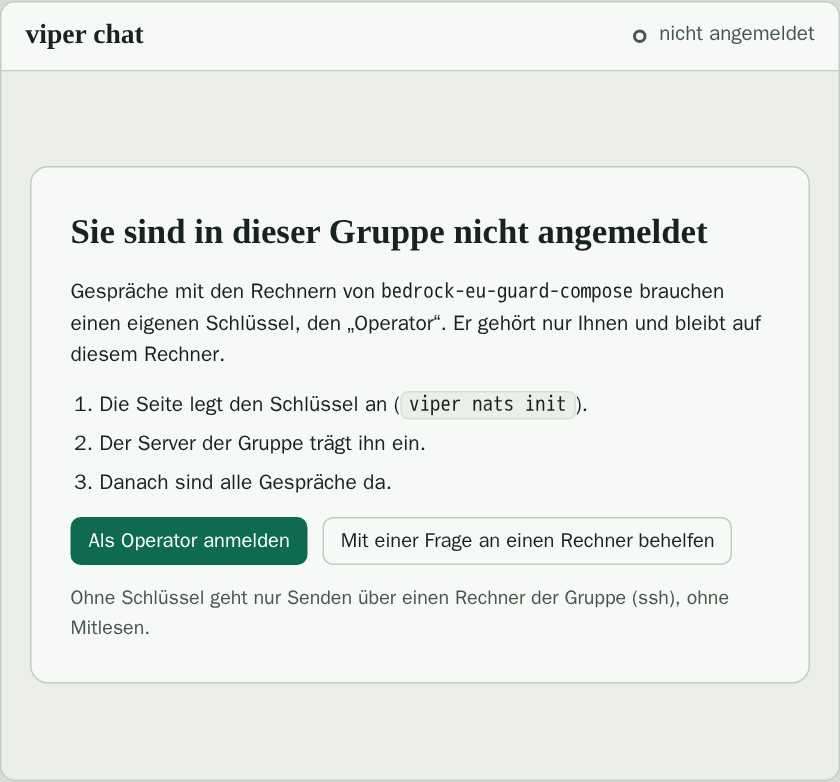
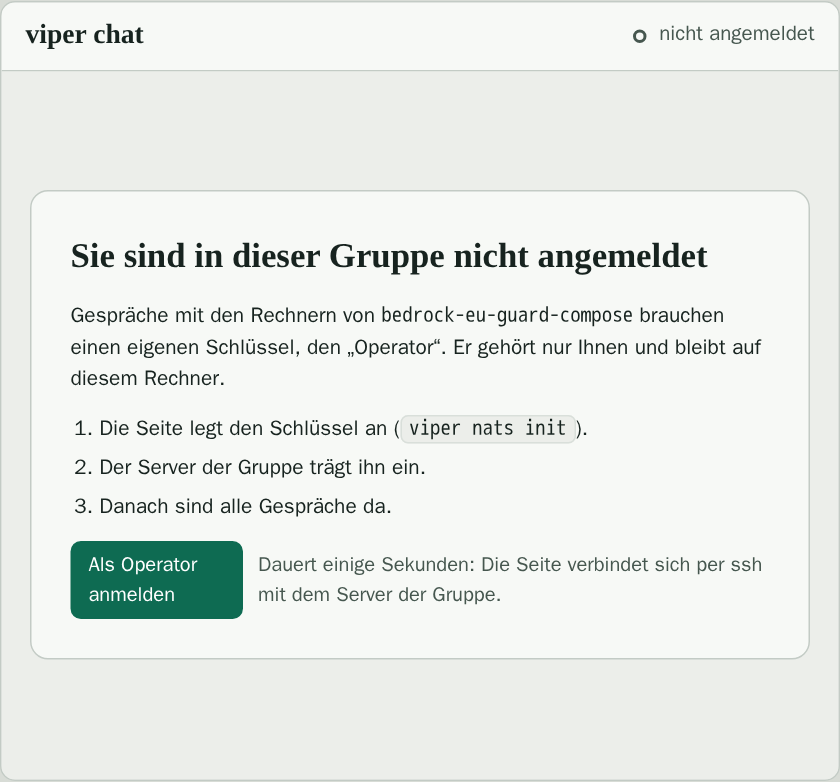
Plan ui-chat: Funde der Pruefung eingearbeitet (Strom im Programm, asked-Ereignis, Dedupe, eigene Nachrichten, Rotation, Sperrdatei, Webserver-Haken), Bilder berichtigt

Changed region(s): [[0.0619, 0.2762, 0.8976, 0.8286], [0.031, 0.8286, 0.0619, 0.8593]]

diff --git a/docs/plan/ui-chat/vorschau.html b/docs/plan/ui-chat/vorschau.html
@@ -203,7 +203,7 @@ svg { display: block; }
       <div class="msgs">
         <div class="day">Heute</div>
         <div class="m mine"><div class="bub"><div class="who"><b>Sie (operator)</b><span>13:58</span><span class="chip req">Frage</span></div><div class="txt">Fasse den Stand der Migration kurz zusammen und lege den Bericht als PDF bei.</div></div></div>
-        <div class="m"><div class="av c2">w2</div><div class="bub"><div class="who"><b>w2</b><span>14:00</span><span class="chip ok">Antwort nach 2 min 12 s</span></div><div class="txt">Drei von vier Schritten sind durch. Offen ist die Umstellung der Konfiguration in <code>config/prod.yaml</code>.</div>
+        <div class="m"><div class="av c2">w2</div><div class="bub"><div class="who"><b>w2</b><span>13:58</span><span class="chip ok">Antwort nach 18 s</span></div><div class="txt">Drei von vier Schritten sind durch. Offen ist die Umstellung der Konfiguration in <code>config/prod.yaml</code>.</div>
           <div class="att"><div class="ic">PDF</div><div><div class="nm">migration-bericht.pdf</div><small>4 Seiten · 212 KB · sha256 9f2c…a41e</small></div><span class="btn">Herunterladen</span></div></div></div>
         <div class="sys warn">w2 liest Nachrichten von <b>operator</b> sofort in seiner Sitzung (NATS_MCP_PUSH_FROM). Ihr Text erscheint dort als Eingabe.</div>
         <div class="m mine"><div class="bub"><div class="who"><b>Sie (operator)</b><span>14:05</span></div><div class="txt">Danke. Mach die Umstellung, aber erst nach grünem Build auf w1.</div></div></div>
@@ -213,10 +213,10 @@ svg { display: block; }
         <div class="tools"><svg width="18" height="18" viewBox="0 0 24 24" fill="none" stroke="currentColor" stroke-width="2" stroke-linecap="round" stroke-linejoin="round"><path d="M21 12l-8.5 8.5a5 5 0 0 1-7-7L14 5a3.3 3.3 0 0 1 4.7 4.7L10 18.4a1.7 1.7 0 0 1-2.4-2.4L15 8.6"/></svg>Datei<span class="seg"><span class="on">Nachricht</span><span>Frage, wartet 30 s</span></span><span class="sp"></span>0 von 16 384 Zeichen · Strg+Enter<span class="btn pri">Senden</span></div></div>
     </main>
     <aside class="side">
-      <div><h3>Angaben</h3><dl class="kv"><dt>Gruppe</dt><dd>bedrock-eu-guard-compose</dd><dt>Rolle</dt><dd>Client</dd><dt>Anbieter</dt><dd>compose</dd><dt>Zuletzt gesehen</dt><dd>vor 12 s</dd><dt>MCP-Server</dt><dd>v0.30.0</dd></dl></div>
+      <div><h3>Angaben</h3><dl class="kv"><dt>Gruppe</dt><dd>bedrock-eu-guard-compose</dd><dt>Rolle</dt><dd>Client</dd><dt>Anbieter</dt><dd>compose</dd><dt>Zuletzt gesehen</dt><dd>vor 12 s</dd><dt>Verlauf seit</dt><dd>13:21</dd></dl></div>
       <div><h3>Empfängt Themen</h3><div class="tags"><span>general</span><span>build</span></div></div>
       <div><h3>Dateien</h3><div class="kv"><dt>Größe höchstens</dt><dd>16 MiB</dd><dt>Erlaubt</dt><dd>PDF, Bild, ZIP</dd></div></div>
-      <div class="note">Nachrichten kommen als „operator“ an. Der Rechner kann antworten, muss es aber nicht.</div>
+      <div class="note">Nachrichten kommen als „operator“ an (der Name ist einstellbar). Der Rechner kann antworten, muss es aber nicht. Was Sie am Terminal senden, sehen Sie hier nicht.</div>
     </aside>
   </div>
 </div></div>
@@ -253,7 +253,7 @@ svg { display: block; }
         <div class="day">Heute</div>
         <div class="m"><div class="av c1">w1</div><div class="bub"><div class="who"><b>w1</b><span>13:30</span></div><div class="txt">Nightly ist durch: 1 842 Tests, 0 Fehler.</div></div></div>
         <div class="m"><div class="av c4">w3</div><div class="bub"><div class="who"><b>w3</b><span>13:44</span></div><div class="txt">Ich nehme den Cache-Umbau. Wer fasst <code>internal/cache</code> an, bitte melden.</div></div></div>
-        <div class="m mine"><div class="bub"><div class="who"><b>Sie (operator)</b><span>14:01</span><span class="chip">gesendet an 2</span></div><div class="txt">Heute bis 18 Uhr nur Fehlerkorrekturen. Neue Funktionen bleiben im Zweig.</div></div></div>
+        <div class="m mine"><div class="bub"><div class="who"><b>Sie (operator)</b><span>14:01</span><span class="chip">an 2 Rechner, die das Thema melden</span></div><div class="txt">Heute bis 18 Uhr nur Fehlerkorrekturen. Neue Funktionen bleiben im Zweig.</div></div></div>
         <div class="m"><div class="av c1">w1</div><div class="bub"><div class="who"><b>w1</b><span>14:06</span></div><div class="txt">Release-Branch ist eingefroren.</div></div></div>
         <div class="sys">Thema <span class="tag">#general</span>: Nachrichten, die vor Ihrem Start gesendet wurden, sind nicht zu sehen (NATS hebt sie nicht auf).</div>
       </div>
@@ -384,11 +384,11 @@ svg { display: block; }
         <div class="sys warn">Kein Rechner empfängt <span class="tag">#alerts</span>. Eine Nachricht hierhin käme bei niemandem an. Ein Rechner empfängt ein Thema, wenn es in <code>NATS_MCP_TOPICS</code> steht oder sein Agent es abonniert.</div>
       </div>
       <div class="comp"><div class="box">Rundruf an #alerts …</div>
-        <div class="tools"><svg width="18" height="18" viewBox="0 0 24 24" fill="none" stroke="currentColor" stroke-width="2" stroke-linecap="round" stroke-linejoin="round"><path d="M21 12l-8.5 8.5a5 5 0 0 1-7-7L14 5a3.3 3.3 0 0 1 4.7 4.7L10 18.4a1.7 1.7 0 0 1-2.4-2.4L15 8.6"/></svg>Datei<span class="seg"><span class="on">Rundruf</span></span><span class="sp"></span><span style="color:var(--warn)">an 0 Rechner</span><span class="btn">Senden</span></div></div>
+        <div class="tools"><svg width="18" height="18" viewBox="0 0 24 24" fill="none" stroke="currentColor" stroke-width="2" stroke-linecap="round" stroke-linejoin="round"><path d="M21 12l-8.5 8.5a5 5 0 0 1-7-7L14 5a3.3 3.3 0 0 1 4.7 4.7L10 18.4a1.7 1.7 0 0 1-2.4-2.4L15 8.6"/></svg>Datei<span class="seg"><span class="on">Rundruf</span></span><span class="sp"></span><span style="color:var(--warn)">an 0 Rechner, die das Thema melden</span><span class="btn">Senden</span></div></div>
     </main>
     <aside class="side">
       <div><h3>Thema alerts</h3><dl class="kv"><dt>Abonnenten</dt><dd>keine</dd><dt>Gesendet von</dt><dd>w2</dd><dt>Erste Meldung</dt><dd>11:48</dd></dl></div>
-      <div><h3>Wer es empfangen könnte</h3><div class="tags"><span>w1</span><span>w2</span><span>w3</span></div></div>
+      <div><h3>Rechner der Gruppe</h3><div class="tags"><span>w1</span><span>w2</span><span>w3</span></div></div>
       <div class="note">Das Thema steht in keiner Einstellung <code>NATS_MCP_TOPICS</code> der Gruppe. Es ist durch Meldungen im Verlauf entstanden.</div>
     </aside>
   </div>
@@ -433,8 +433,7 @@ svg { display: block; }
     <h2>Sie sind in dieser Gruppe nicht angemeldet</h2>
     <div>Gespräche mit den Rechnern von <b style="font-family:var(--mono)">bedrock-eu-guard-compose</b> brauchen einen eigenen Schlüssel, den „Operator“. Er gehört nur Ihnen und bleibt auf diesem Rechner.</div>
     <ol><li>Die Seite legt den Schlüssel an (<code>viper nats init</code>).</li><li>Der Server der Gruppe trägt ihn ein.</li><li>Danach sind alle Gespräche da.</li></ol>
-    <div style="display:flex;gap:10px"><span class="btn pri">Als Operator anmelden</span><span class="btn">Mit einer Frage an einen Rechner behelfen</span></div>
-    <div class="hint" style="color:var(--muted);font-size:.82rem">Ohne Schlüssel geht nur Senden über einen Rechner der Gruppe (ssh), ohne Mitlesen.</div>
+    <div style="display:flex;gap:10px;align-items:center"><span class="btn pri">Als Operator anmelden</span><span style="color:var(--muted);font-size:.84rem">Dauert einige Sekunden: Die Seite verbindet sich per ssh mit dem Server der Gruppe.</span></div>
   </div></main></div>
 </div></div>
 <div class="scroll"><div class="board" id="b5b" style="width:560px;height:520px;grid-template-rows:46px auto 1fr">
@@ -442,8 +441,8 @@ svg { display: block; }
   <div class="banner"><span><b>Der Server kennt Ihren Schlüssel nicht</b> („Authorization Violation“). Er stammt wohl aus einer früheren Gruppe.</span><span class="sp"></span><span class="btn bad">Abmelden</span><span class="btn pri">Neu anmelden</span></div>
   <div class="shell one" style="grid-row:auto"><main class="conv" style="display:grid"><div class="empty" style="max-width:440px">
     <h2>Keine Verbindung</h2>
-    <div>Zuletzt versucht um 14:12. Der Verlauf bis 14:09 ist auf diesem Rechner gespeichert und bleibt lesbar.</div>
-    <div class="sys warn" style="text-align:left">Am Terminal: <code>viper nats revoke bedrock-eu-guard-compose</code>, dann <code>viper nats init bedrock-eu-guard-compose</code>.</div>
+    <div>Zuletzt versucht um 14:12, nächster Versuch in 8 s. Der Verlauf bis 14:09 ist auf diesem Rechner gespeichert und bleibt lesbar.</div>
+    <div style="color:var(--muted);font-size:.84rem">„Neu anmelden“ macht, was am Terminal <code>viper nats revoke</code> und danach <code>viper nats init</code> tun.</div>
   </div></main></div>
 </div></div>
 </div>

diff --git a/docs/plan/ui-chat.md b/docs/plan/ui-chat.md
@@ -2,11 +2,11 @@
 
 **Ziel:** `viper ui-chat` öffnet im Browser einen Chat im Stil von Microsoft Teams: links alle Gespräche, in der Mitte der Verlauf, unten das Eingabefeld. Jede Verbindung, die `viper` in einer NATS-Gruppe sieht, ist ein eigenes Gespräch: ein Rechner (Sie und er), **jedes Thema** der Gruppe, **jedes Paar von Rechnern** (w1 ↔ w2, mitgelesen) und „Alle Meldungen“ der Gruppe. Man schreibt Nachrichten, stellt Fragen und tauscht Dateien, ohne am Terminal `viper nats send` zu tippen.
 
-**Stand:** Entwurf (18.11.2026); die Entscheidungen in §9 sind getroffen (Vorschläge übernommen), die Prüfung läuft (§10). Die Bilder in §6 sind eine **Vorschau zum Beurteilen** (HTML in [`ui-chat/vorschau.html`](ui-chat/vorschau.html)); gebaut ist nichts. Gehört zu [`nats.md`](nats.md) (die Gruppen), [`nats-cli.md`](nats-cli.md) (`viper nats`) und [`ui.md`](ui.md) (Sicherheit und Aufbau der Oberfläche). *[V]* heißt: im Code gelesen; *[?]* ist eine Vermutung, die vor dem Bauen zu prüfen ist.
+**Stand:** Entwurf (18.11.2026); die Entscheidungen in §9 sind getroffen (Vorschläge übernommen); der Plan wurde einmal unabhängig gegen den Code und ein gebautes Programm geprüft, die Funde sind eingearbeitet (§10). Die Bilder in §6 sind eine **Vorschau zum Beurteilen** (HTML in [`ui-chat/vorschau.html`](ui-chat/vorschau.html)); gebaut ist nichts. Gehört zu [`nats.md`](nats.md) (die Gruppen), [`nats-cli.md`](nats-cli.md) (`viper nats`) und [`ui.md`](ui.md) (Sicherheit und Aufbau der Oberfläche). *[V]* heißt: im Code gelesen; *[?]* ist eine Vermutung, die vor dem Bauen zu prüfen ist.
 
 ## 1 Ausgangslage
 
-* `viper nats` kann alles, was ein Chat braucht *[V]*: `send` (an einen Rechner), `broadcast` (an ein Thema), `request` (fragen und auf die Antwort warten), `listen [--topic T] [--all]` (mitlesen), `peers` und `topics` (wer da ist, wer was empfängt), `fetch` (eine Datei holen), `init` und `revoke` (der eigene Schlüssel als „operator“). Mit `--json` kommt jede Meldung als eine Zeile: `event`, `from`, `to`, `via` (`out`, `pub`, `presence`, `topics`), `topic`, `type` (`msg`, `req`), `id`, `re`, `text`, `att_*`.
+* `viper nats` kann alles, was ein Chat braucht *[V]*: `send` (an einen Rechner), `broadcast` (an ein Thema), `request` (fragen und auf die Antwort warten), `listen [--topic T] [--all]` (mitlesen), `peers` und `topics` (wer da ist, wer was empfängt), `fetch` (eine Datei holen), `init` und `revoke` (der eigene Schlüssel als „operator“). Mit `--json` kommt jede Meldung als eine Zeile: `event`, `from`, `to`, `via` (`out`, `pub`, `presence`, `topics`), `topic`, `type` (`msg`, `req`, `res`), `id` (nur bei `req`), `re` (nur bei `res`), `text`, `att_*`. Der Operator sieht **seine eigenen Nachrichten nicht** (`NoEcho`).
 * Die Seite NATS in `viper ui` zeigt das schon, aber als Werkzeug: ein Formular, ein Ausgabebereich, ein Mitlesen **je Lauf**, kein Verlauf. Wer mit mehreren Rechnern „spricht“, hat keinen Überblick, was er wem geschrieben hat und wer geantwortet hat.
 * **Der Operator darf die ganze Gruppe lesen** *[V: `natsmcp/service.go`, `subscribeTopics`; `config.go`: „Der Server lässt jeden Rechner die Gruppe lesen, das ist kein neues Recht“]*: Das Mitlesen (`listen`) abonniert `viper.<gruppe>.*.pub.>`, also **alle Themen**, auch die, die kein Rechner empfängt; mit `--all` kommen die Direktnachrichten **zwischen allen Rechnern** dazu (`AllOutSub`). Daraus lassen sich die Gespräche zwischen zwei Rechnern und die Liste aller Themen bilden.
 * **NATS (ohne JetStream) hebt nichts auf** *[V]*: Eine Meldung kommt nur an, wenn der Empfänger **in dem Moment** verbunden ist. Es gibt keinen Verlauf, keine Lesebestätigung, kein Bearbeiten und kein Löschen. Der Verlauf eines Chats muss also **auf diesem Rechner** entstehen, aus dem, was der Chat gesehen hat.
@@ -27,37 +27,54 @@
 ## 3 Aufbau
 
 ```
- Browser (Seite des Chats)                viper ui-chat (ein Programm, ein Port)
- ───────────────────────────             ────────────────────────────────────────────────────────
-  Liste der Gespräche   ◄──── SSE ────   Strom je Gruppe:  viper nats listen G --all --json ──► NATS
-  Verlauf, Eingabe      ──── POST ───►   Senden:           viper nats send|broadcast|request …
-                                          Verlauf:          ~/.local/state/viper/chat/<gruppe>/…
-                                          Abgleich:         Antwort ↔ Frage über "re" und "id"
+ Browser (Seite des Chats)         viper ui-chat (ein Programm, ein Port)
+ ─────────────────────────        ───────────────────────────────────────────────────────────────────
+  Liste der Gespräche   ◄─ SSE ─   Chat-Schicht (Paket cli):  je Gruppe  openOperator (ein Tunnel)
+  Verlauf, Eingabe      ─ POST ─►   ├─ Strom:     natsmcp.RunCLI("watch", --all, --query) ─► NATS
+                                    ├─ Senden:    RunCLI("send" | "broadcast" | "request") über denselben Tunnel
+                                    ├─ Holen:     RunCLI("fetch") bei einem Klick
+                                    └─ Verlauf:   ~/.local/state/viper/chat/<gruppe>/…  (Sperrdatei)
 ```
 
-* **Ein neuer Unterbefehl `viper ui-chat`** (`--port`, `--no-open`, `--readonly`), in `internal/adapter/driving/cli`. Er startet denselben Webserver wie `viper ui`, aber mit **anderen Seiten und einer anderen Programmschnittstelle** (`/api/chat/…`): Schlüssel, Cookie, Host- und Origin-Prüfung, CSP, Ströme und Läufe sind dieselben Bausteine *[V, zu prüfen: `web.Config` bekommt ein Feld für die Seiten und einen Handler; §9 Punkt 1]*. Der Chat hat **kein** Formular für Einstellungen, Läufe auf Rechnern oder Befehle.
-* **Strom:** Für jede **verbundene** Gruppe läuft **ein** `viper nats listen G --all --json` als Lauf des Servers (kein Lauf je Tab). Seine Zeilen gehen durch dieselbe Reinigung und Schwärzung wie jeder Lauf, werden **einem Gespräch zugeordnet** und im Verlauf abgelegt; die Seite bekommt sie über SSE. Reißt der Strom ab (Tunnel, Server neu gestartet), verbindet der Server sich wieder (Wartezeit wächst bis 30 s) und sagt es im Kopf der Seite (Bild 5).
-* **Zuordnung** *[V, aus den Feldern der Zeile]*: `via=out` mit `to=operator` oder `from=operator` → Gespräch des Rechners (`from`/`to`); `via=out` zwischen **zwei Rechnern** (nur mit `--all`) → das **Paar** (der Schlüssel des Paares sind die beiden Namen, sortiert: `w1`, `w2`, gleich in beiden Richtungen; Fragen und Antworten über `id` und `re`); `via=pub` → Thema `topic` (jedes, auch ohne Abonnent); `via=presence`/`topics` → Anwesenheit und Themenlisten, keine Nachricht (§4.4). Alles erscheint zusätzlich in „Alle Meldungen“.
-* **Die Liste der Themen** besteht aus den Themen in `NATS_MCP_TOPICS` der Rechner (`viper nats topics`), den Themen, die Rechner als abonniert melden (`via=topics`), und den Themen, die im Strom vorkommen. Ein Thema ohne Abonnent trägt die Marke „niemand abonniert“ (Bild 3c).
-* **Senden:** `viper nats send G TEXT --to M`, `broadcast G --topic T`, `request G --to M --timeout 30` (ein Lauf je Nachricht, mit Budget wie bei den Läufen der Seiten). **Der Text geht nie in die Befehlszeile**, sondern über eine Datei des Laufs (`--file`, wie bei der Seite NATS) *[V]*. Eine Datei kommt aus dem Hochladen (`--pdf|--image|--zip`). Die Nachricht steht **sofort** im Verlauf (Zustand „wird gesendet“), das Ergebnis des Laufs macht daraus „gesendet“ oder einen Fehler mit Grund.
-* **Frage:** Der Lauf `request` wartet auf die Antwort; sie kommt auch als Zeile im Strom (`re` nennt die `id` der Frage). Der Chat zeigt die Antwort **unter der Frage** („Antwort nach 2 min 12 s“) und markiert eine unbeantwortete Frage; eine Antwort nach dem Ablauf der Wartezeit erscheint trotzdem im Gespräch.
-* **Operator:** Ohne Schlüssel (`viper nats init`) gibt es **keinen Chat** (Bild 5, links): Strom und Verlauf brauchen ihn. Die Seite bietet **Anmelden** und **Abmelden** an (dieselben Läufe wie die Seite NATS). Kennt der Server den Schlüssel nicht („Authorization Violation“), steht der Weg da (Bild 5, rechts; seit v0.32.0 nennt `viper nats` den Grund).
-* **Adapter:** Der Verlauf ist ein neuer Port `chat.Store` (gesehen, gesendet, gelesen, suchen, löschen) mit einer Datei als Adapter; die Zuordnung ist reine Logik in einem Anwendungsfall `chat` (Tests ohne Netz, §7).
+* **Ein neuer Unterbefehl `viper ui-chat`** (`--port`, `--no-open`, `--readonly`, `--no-pairs`, `--keep-days N`, `--no-history`), in `internal/adapter/driving/cli`. Er startet denselben Webserver wie `viper ui`, aber mit **eigenen Seiten und eigener Programmschnittstelle** (`/api/chat/…`, §3.3).
+* **Der Strom läuft im Programm, nicht als Lauf des Servers** *(Ergebnis der Prüfung, 18.11.2026)*. Ein Dauerlauf in der Lauf-Tabelle von `viper ui` passt nicht: Das Budget der NATS-Läufe ist vier (`maxRuns`), vier Gruppen belegten es ganz und `send` ginge nicht mehr; die Tabelle behält nur 1 MiB Ausgabe, schneidet Zeilen nach 4096 Byte oder 600 ms Stille (eine Nachricht bis 16 KiB wird als JSON bis 33 KiB mehrfach zerlegt), mischt stdout und stderr und schwärzt auf der **JSON-Zeile**: ein Geheimnis mit `"`, `\`, `<`, `>`, `&` steht dort maskiert und würde nicht gefunden. Darum: **die Chat-Schicht ruft `openOperator` einmal je Gruppe** (ein ssh-Tunnel, einmal `Find`: zwei ssh-Aufrufe, bis 20 s) und danach `natsmcp.RunCLI` mit **eigenem `io.Writer`**, zeilenweise gelesen (ein Scanner mit 256 KiB je Zeile, wie `ReadEvents`). `send`, `request` und `fetch` laufen über **denselben** Tunnel (sonst zahlt jede Nachricht Tunnel und Anmeldung neu). `openOperator` ist heute nicht exportiert; die Chat-Schicht liegt darum im Paket `cli`, und `web` bekommt nur Schnittstellen (§3.3).
+* **Schwärzen und Reinigen nach dem Dekodieren:** Jede Zeile wird als JSON gelesen; `Clean` und `Redact` laufen auf `text` und `att_name`, nicht auf der Zeile.
+* **Der Strom** ist `watch --all --query` (mit `--query` fragen die Rechner beim Start nach Anwesenheit: sonst stünde jedes Thema die ersten bis zu 30 s falsch auf „niemand abonniert“, denn die Rechner melden nur alle 30 s). Ein **Wächter** erkennt einen toten Strom: stirbt der Tunnel, merkt `watch` nichts (es versucht für immer, an einen toten Port zu verbinden, und gibt keinen Fehler auf stdout), erkennbar nur an stderr (`disconnected`, `server error`) oder an 90 s ohne Anwesenheitszeile. Der Wächter beendet den Strom und **verbindet neu** (neuer Tunnel, Wartezeit 2 s, verdoppelt bis 30 s; das ist die Wartezeit des Chats, nicht die von NATS, die fest 2 s beträgt). Der Kopf der Seite sagt „Verbindung gestört, versucht um 14:12“. Meldungen aus der Lücke sind weg (§3.1). Es gibt **kein** Signal „verbunden“ auf stdout (`ready` kommt von `listen` nicht an): „verbunden“ heißt, dass die erste Zeile oder die erste Anwesenheit da ist.
+* **`--readonly`:** Der Strom läuft (Lesen ist erlaubt); Senden, Anmelden, Abmelden und Löschen sind gesperrt. (In `viper ui` ist `listen` bei `--readonly` ein Lauf und damit gesperrt; im Chat gibt es keinen Lauf.)
+* **Zuordnung** *[V, Felder der Zeile]*: Die Zeilen haben `event` (`message`), `from`, `to`, `via` (`out`, `pub`, `presence`, `topics`), `topic`, `type` (**`msg`, `req`, `res`**, `presence`, `topics`; `caps` kommt nie im Strom an), `id` (nur `req`), `re` (nur `res`), `state` (bei Anwesenheit auch `bye`), `text`, `att_*`. `via=out` mit `to=operator` oder `from=operator` → Gespräch des Rechners; `via=out` zwischen **zwei Rechnern** (nur mit `--all`) → das **Paar** (Schlüssel: die beiden Namen, sortiert); `via=pub` → Thema `topic` (jedes, auch ohne Abonnent; der Versuch zeigte: `w3 → pub.zzz` steht im Strom); `via=presence`/`topics` → Anwesenheit und Themenlisten, keine Nachricht (`bye` macht „weg“ sofort sichtbar). Alles erscheint zusätzlich in „Alle Meldungen“.
+* **Die Liste der Themen:** `NATS_MCP_TOPICS` der Rechner (`reportConfiguredTopics`), die Themen, die Rechner als abonniert melden (`via=topics`, `text` mit Leerzeichen getrennt), und die Themen im Strom. „Niemand abonniert“ gilt erst, wenn **alle** Rechner der Gruppe einmal Anwesenheit gemeldet haben (bis dahin „unbekannt“); die Zahl „an N Rechner“ ist eine **Schätzung** aus diesen Meldungen und heißt „an 2 Rechner, die das Thema melden“, nie „zugestellt“.
+* **Eigene Nachrichten kommen nicht im Strom an** *[V: `NoEcho`, und `Parse`/`ParseDirect` verwerfen `Me`; im Versuch bestätigt]*: Was der Operator sendet, trägt der Chat **selbst** in den Verlauf ein (Gespräch des Rechners, Thema und „Alle Meldungen“). Nachrichten des Operators, die von einem **Terminal** (`viper nats send`) oder von der Seite NATS in `viper ui` kommen, sind für den Chat **unsichtbar**; das steht im Handbuch.
+* **Senden:** `send`, `broadcast`, `request` als `RunCLI`-Aufruf; der Text geht **nie** in eine Befehlszeile (im Programm gibt es keine; der Text wird als Wert übergeben). `sent` heißt nur „an den Server gegeben“ (`FlushTimeout`), nie „angekommen“; der Chat sagt „gesendet“, nicht „zugestellt“. Das Limit des Textes ist **16 384 Byte** (nicht Zeichen), auf dem Draht zusätzlich 32 KiB nach der JSON-Kodierung (ein Steuerzeichen zählt 6 Byte, ein `"` 2): der Zähler zählt Bytes und warnt vor 32 KiB. Eine Datei zu senden fragt vorher einmal nach Anwesenheit (alle Rechner antworten mit Anwesenheit, Themen und `caps`: ein kurzer Schub im Strom).
+* **Frage und Antwort:** `request` wartet **höchstens 120 s** (nicht 600: das Programm lehnt mehr ab; die Prüfung des Servers in `viper ui` erlaubt 600, sie wird nicht übernommen). Die Frage des Operators hat eine `id`, die `request` **heute nirgends ausgibt** (`askWith`), und die Antwort trägt erst danach `re`. Darum bekommt `request` **eine kleine Änderung**: Es gibt vor dem Warten ein Ereignis `asked` mit der `id` aus (das Feld `ID` der Zeile gibt es schon). So lässt sich die Antwort **auch nach dem Ablauf** der Wartezeit (eine späte Antwort kommt als Zeile `res` im Strom) der Frage zuordnen. Die Antwort aus `request` kommt **zweimal** an (als Ereignis `answer` und als Zeile im Strom): **Dedupe nach (`re`, `from`)**. Eine Antwort gilt nur, wenn `from` der Gefragte ist und `to` der Fragende (der Dienst prüft das; ein Rechner kann ein `res` mit fremdem `re` senden, und es wird nicht verworfen: der Chat prüft es selbst).
+* **Operator:** Ohne Schlüssel (`viper nats init`) gibt es **keinen Chat** (Bild 5a). Die Seite bietet **Anmelden** und **Abmelden** an (dieselben Abläufe wie die Seite NATS; Anmelden geht per ssh zum Server und braucht Zeit: Zustand „läuft“, Fehler mit Grund). Kennt der Server den Schlüssel nicht („Authorization Violation“), steht der Weg da (Bild 5b; `connectOnce` nennt den Grund seit v0.32.0; ein **laufender** Strom hat den Hinweis nicht: der Wächter liest ihn aus stderr). **Der Name des Operators ist einstellbar** (`NATS_OPERATOR_NAME`, Standard `operator`): Texte und Zuordnung nehmen ihn aus der Gruppe, nie fest „operator“.
+* **`NATS_MCP_PUSH_FROM`:** Die Prüfung und `--yes` gibt es nur im Weg über einen Rechner (`natsPushCheck`); **als Operator braucht `send` nie `--yes`**. Der Chat baut die Rückfrage („w2 liest Nachrichten von operator sofort in seiner Sitzung“) **selbst**, aus `NATS_MCP_PUSH_FROM` jedes Rechners. Dafür muss das Backend die Gruppe genauer beschreiben (§3.3).
+* **Adapter:** Der Verlauf ist ein Port `chat.Store` (gesehen, gesendet, gelesen, suchen, löschen) mit einer Datei als Adapter; die Zuordnung (Gespräche, Paare, Fragen, Dedupe) ist reine Logik in einem Anwendungsfall `chat` (Tests ohne Netz, §7).
 
 ### 3.1 Der Verlauf
 
-* Eine Datei je Gespräch: `~/.local/state/viper/chat/<gruppe>/<gespräch>.jsonl` (`rechner-<name>`, `thema-<name>`, `paar-<a>-<b>` mit sortierten Namen; Name geprüft, kein Pfad aus Text), Rechte `0600`, Ordner `0700`. **Ein Gespräch entsteht erst mit der ersten Meldung** (bei zehn Rechnern gibt es sonst 45 leere Paare); höchstens 200 Gespräche je Gruppe, danach fallen die ältesten ohne Meldung weg. Jede Zeile: Zeit, Richtung, `from`/`to`, Text (geschwärzt und gereinigt), `id`, `re`, Art (`msg`, `req`, `answer`), Anhang (nur ID, Name, Art, Größe und Prüfsumme, **nicht** der Inhalt).
-* **Grenzen:** höchstens 10 000 Zeilen und 20 MiB je Gespräch, nicht älter als 90 Tage (einstellbar mit Optionen von `viper ui-chat`); beim Überschreiten fallen die ältesten weg. Eine Zeile über 32 KiB wird gekürzt.
-* **Gelesen:** je Gespräch die zuletzt gesehene Nummer; daraus die Zahl der ungelesenen (Bild 1, grüne Zahl). Ungelesen heißt „kam an, als diese Seite offen war oder später geladen wurde“.
-* **Löschen:** „Verlauf löschen“ je Gespräch und für alles; die Dateien werden entfernt. Das Programm schreibt in `events.log` eine Zeile („chat: Verlauf von w2 gelöscht“), nie den Inhalt.
-* **Was fehlt:** Meldungen, die ankamen, als `viper ui-chat` nicht lief, sind **nicht da** (NATS hat sie nicht aufgehoben). Das steht im Kopf jedes Themas (Bild 2) und im Handbuch. Wer Aufbewahrung braucht, braucht JetStream (Plan [`nats-jetstream-nuntius.md`](nats-jetstream-nuntius.md)); das ist nicht Teil dieses Plans.
+* **Zeit:** Es gibt **keinen Zeitstempel des Absenders** (weder in `Envelope` noch in der Zeile). Jede Meldung trägt die **Ankunftszeit beim Chat**: nicht fälschbar, aber nicht die Absendezeit; die Reihenfolge verschiedener Absender ist die Ankunftsfolge; nach einem Neustart des Stroms gibt es Lücken. Der **Absender** ist dagegen durch das Subject belegt (der Server lehnt ein gefälschtes `from` ab: im Versuch „Permissions Violation“).
+* **Dateien:** Eine Datei je Gespräch unter `model.StateDir(home)/chat/<gruppe>/` (nicht fest `~/.local/state`: der Pfad hängt vom System ab): `rechner__<name>.jsonl`, `thema__<name>.jsonl`, `paar__<a>__<b>.jsonl` (sortiert). Die Namen dürfen Bindestriche haben, aber **keinen Unterstrich**, darum trennt `__` eindeutig (`paar-a-b-c` wäre mehrdeutig: (`a`, `b-c`) gegen (`a-b`, `c`)). Das Alphabet (`a-z`, `0-9`, `-`) schließt Pfadzeichen aus; Rechte `0600`, Ordner `0700`. **Ein Gespräch entsteht erst mit der ersten Meldung.**
+* **Grenzen:** höchstens **500 Gespräche** je Gruppe (Themen und Paare; bei Überschreiten weicht das mit der ältesten letzten Meldung; ein Rechner, der Themen erfindet, kann so nichts füllen), **höchstens 100 neue Themen je Stunde** je Absender (der Rest geht nur in „Alle Meldungen“), je Gespräch 10 000 Zeilen und 20 MiB, nicht älter als 90 Tage (`--keep-days`). **Rotation in Blöcken:** zwei Dateien je Gespräch (`….jsonl` und `….1.jsonl`); ist die erste voll, wird sie zur zweiten (die alte zweite fällt weg). Kein Neuschreiben bei jeder Zeile. Eine Zeile über 32 KiB wird gekürzt.
+* **Zeile:** Zeit, Richtung, `from`/`to`, Text (gereinigt und geschwärzt), `id`, `re`, Art (`msg`, `req`, `res`), Anhang (nur ID, Name, Art, Größe, Prüfsumme).
+* **Sperre:** Zwei `viper ui-chat` zugleich schrieben dieselben Dateien doppelt (NATS erlaubt zwei Verbindungen mit einem Schlüssel). Darum eine **Sperrdatei** `chat/.lock` mit `internal/filelock` (wie bei den Änderungen der Einstellungen; Linux, macOS, Windows); ein zweiter Start sagt „läuft schon (Port N)“ und endet.
+* **Gelesen** (letzte gesehene Nummer je Gespräch), **Löschen** (je Gespräch und alles; eine Zeile in `events.log` ohne Inhalt) und **Abmelden** (Verlauf bleibt, die Seite fragt) wie zuvor.
+* **Was fehlt:** Meldungen, die ankamen, als `viper ui-chat` nicht lief, oder in einer Lücke des Stroms; Meldungen, die `Decode` als zu groß oder fehlerhaft verwirft (nur eine Zeile auf stderr, der Chat zählt sie: „3 Meldungen verworfen“); eigene Meldungen vom Terminal (§3). Wer Aufbewahrung braucht, braucht JetStream ([`nats-jetstream-nuntius.md`](nats-jetstream-nuntius.md)); das ist nicht Teil dieses Plans.
 
-### 3.2 Anwesenheit, Ungelesenes, Benachrichtigung
+### 3.2 Anwesenheit, Ungelesenes, Benachrichtigung, Grenzen
 
-* **Lampe** je Rechner: grün = in den letzten 90 s gemeldet; **hohl** = älter; **keine Lampe** = meldet nichts (ältere Fassung). Die Kopfzeile des Gesprächs sagt „zuletzt vor 12 s“.
-* **Ungelesen:** Zahl an der Zeile, Zahl im Titel des Tabs („(3) viper chat“).
-* **Benachrichtigung des Browsers:** standardmäßig aus; ein Schalter fragt die Erlaubnis **erst bei einem Klick** *[V: so verlangt es der Browser]*. Der Text der Benachrichtigung ist **nur der Absender und „neue Nachricht“** (kein Inhalt eines Fremden auf dem Bildschirm außerhalb der Seite).
-* **Suche:** über den Verlauf auf dem Server (Teilwort, ohne Unterschied der Groß- und Kleinschreibung), höchstens 200 Treffer, mit dem Gespräch.
+* **Lampe** je Rechner: **grün** = in den letzten 90 s „ich bin da“; **hohl** = zuletzt gesehen vor mehr als 90 s oder `bye`; **keine Lampe** = noch nie gesehen („unbekannt“; das kann ein Rechner ohne Sitzung oder mit älterer Fassung sein, der Strom unterscheidet das nicht). Die Kopfzeile sagt „zuletzt vor 12 s“. Die Marke **Server** kommt aus `Find` beim Start (`openOperator` kennt den Server der Gruppe), nicht aus dem Strom.
+* **Ungelesen:** Zahl an der Zeile, Zahl im Titel des Tabs („(3) viper chat“). **Benachrichtigung des Browsers:** aus; ein Schalter fragt die Erlaubnis erst bei einem Klick; der Text ist nur „neue Nachricht von w2“, nie der Inhalt. **Suche:** über den Verlauf auf dem Server, Teilwort, höchstens 200 Treffer.
+* **Rate:** Der Chat nimmt höchstens **200 Zeilen je Sekunde** insgesamt und **50 je Absender** an; der Rest wird gezählt und verworfen („12 Meldungen verworfen: w3 sendet zu viel“), in der SSE zum Browser gilt dasselbe. (`natsmcp` hat im `tap` keine Grenze: ein flutender Rechner erzeugte sonst jede Zeile.)
+* **Windows und macOS:** Die Sperrdatei und die Dateinamen (Kleinbuchstaben, `__`) sind unkritisch; zu prüfen sind der Pfad des Zustands, der Tunnel als Kindprozess (`ssh -N -L`, Abbruch) und die Benachrichtigung (nur nach Klick).
+
+### 3.3 Verdrahtung im Webserver
+
+Der Chat braucht mehr als ein Feld in `web.Config` *(Prüfung)*:
+
+* **`Config.Site fs.FS`** (Standard `pages()`), ein Haken für zusätzliche Handler, und der Pfad der Ströme (`/api/events` ist fest im Wächter, der Ströme zählt: ein SSE des Chats würde einen der 16 allgemeinen Plätze belegen) sowie der Pfad des Uploads (`/api/upload`, `application/octet-stream`) werden **einstellbar**. CSP, Cookie (`viper_ui_<port>`) und Prüfungen bleiben unverändert. Ein Kernpaket für das Gemeinsame ist **nicht** nötig.
+* **Eigene Seiten in einem eigenen Paket** (`internal/adapter/driving/chatweb/static`, eigenes `embed`): `TestThePagesHaveNothingThatTheModelForbids` (feste Dateiliste), `TestThePagesStaySmall` (175 KB Start, 200 KB gesamt) und der Schlüsseltest hängen an `web.Pages()`; der Chat bekommt **eigene Tests** mit `fs.FS` als Parameter und **eigene Grenzen**. Heute hat `viper ui` 157 385 Byte beim Start (21,8 KB bis 175 KB): ein gemeinsames Budget gäbe es nicht. `style.css` (die Farben) wird **kopiert**, nicht geteilt.
+* **Das Backend** (`uiBackend.natsGroups`, `web.NATSGroup`) beschreibt heute nur Name, Rechner, „Operator da“ und `FileMax`. Der Chat braucht zusätzlich je Gruppe den **Namen des Operators** (`NATS_OPERATOR_NAME`) und je Rechner **`NATS_MCP_PUSH_FROM`**, die abonnierten Themen der Einstellungen und die Größe der Datei (`min(FileMax, 64 MiB)`).
+* **Downloads** hängen nicht an der Lauf-Tabelle (sie vergisst nach 20 beendeten Läufen und löscht deren Dateien): Der Chat hat einen **eigenen Cache** (Schlüssel: Anlagen-ID und Prüfsumme, Datei im Verzeichnis `0700`, Lebensdauer 30 Minuten, höchstens 256 MiB) und liefert mit `Content-Disposition: attachment`, einem gereinigten Namen (`cleanFileName`, nicht der Name aus der Meldung) und `nosniff`.
 
 ## 4 Die Oberfläche
 
@@ -84,9 +101,9 @@ Nur lesen (Bild 3): eine Zeile je Meldung (Zeit, **von → an**, Text), auch was
 
 ### 4.5 Eingabe
 
-* Ein Textfeld (bis 16 384 Zeichen mit Zähler), **Strg+Enter** sendet, **Enter** macht eine neue Zeile. Der Entwurf je Gespräch bleibt im Browser (`localStorage`, wie die Wahl der Sprache), solange die Seite offen ist.
-* **Art:** *Nachricht* (kommt an, wenn der Rechner da ist; keine Antwort nötig) oder *Frage* (wartet 30 s, bis 600 s einstellbar). Ein **Thema** kennt nur den Rundruf („an 2 Rechner“; die Zahl kommt aus den Themen, die die Rechner melden).
-* **Datei:** Büroklammer, Ablegen auf den Verlauf oder **Strg+V** (auch ein Bildschirmfoto); eine Datei je Nachricht; die Seite prüft Art und Größe **vor** dem Senden (Bild 4). Eine Gruppe ohne Objektspeicher (`NATS_OBJECTS=true` fehlt) sperrt das Feld und sagt warum.
+* Ein Textfeld (bis 16 384 **Byte** mit Zähler in Bytes; auf dem Draht gelten zusätzlich 32 KiB nach der JSON-Kodierung), **Strg+Enter** sendet, **Enter** macht eine neue Zeile. Der Entwurf je Gespräch bleibt im Browser (`localStorage`, wie die Wahl der Sprache), solange die Seite offen ist.
+* **Art:** *Nachricht* (kommt an, wenn der Rechner da ist; keine Antwort nötig) oder *Frage* (wartet 30 s, einstellbar bis **120 s**: länger lässt `request` nicht zu; eine spätere Antwort erscheint trotzdem im Gespräch). Ein **Thema** kennt nur den Rundruf („an 2 Rechner“; die Zahl kommt aus den Themen, die die Rechner melden).
+* **Datei:** Büroklammer, Ablegen auf den Verlauf oder **Strg+V** (auch ein Bildschirmfoto); eine Datei je Nachricht; die Seite prüft Art und Größe **vor** dem Senden (Bild 4; die Grenze ist `min(NATS_OBJECTS_FILE_MAX der Gruppe, 64 MiB)`). Eine Gruppe ohne Objektspeicher (`NATS_OBJECTS=true` fehlt) sperrt das Feld und sagt warum.
 * **Nur lesen** (`viper ui-chat --readonly`): kein Eingabefeld, kein Anmelden, kein Löschen.
 
 ## 5 Sicherheit
@@ -97,8 +114,11 @@ Wie in [`ui.md` §3](ui.md), dazu:
 |---|---|
 | Server nur auf `127.0.0.1`, Host-Kopf genau `127.0.0.1:<port>`, Schlüssel für den Start, Cookie `HttpOnly` und `SameSite=Strict`, `POST` mit `X-Viper-UI`, Prüfung von `Origin`, CSP `script-src 'self'` ohne Inline-Skript | eine fremde Seite im Browser, ein anderer Benutzer des Rechners |
 | Alles aus NATS: `natsmcp.Clean`, Schwärzung bekannter Zugangsdaten, `textContent`, keine Links, Dateinamen gereinigt, Dateien nur als Download | ein Agent, der Text oder Dateien als Waffe schickt (HTML, Escape-Folgen, ein Link, ein „.pdf“ mit Skript) |
-| Ein Strom je Gruppe, höchstens N Zeilen je Sekunde in die Seite, Zeilen über 32 KiB gekürzt, Grenzen des Verlaufs (§3.1) | eine Flut von Meldungen, die die Platte oder den Browser füllt |
-| Der Text einer Nachricht geht **nie** in eine Befehlszeile, Namen kommen aus der Liste, `--name=wert`, kein Name mit `-` am Anfang | Einschleusen von Optionen |
+| Ein Strom je Gruppe, höchstens 200 Zeilen je Sekunde (50 je Absender, §3.2), Zeilen über 32 KiB gekürzt, Grenzen des Verlaufs (§3.1), höchstens 100 neue Themen je Stunde je Absender | eine Flut von Meldungen, die die Platte oder den Browser füllt |
+| Kein Kindprozess mit Argumenten: Der Chat ruft die Funktionen im Programm auf; Namen kommen aus der Liste und aus `ValidName` (`a-z`, `0-9`, `-`), nie ein freier Pfad | Einschleusen von Optionen und Pfaden |
+| Zeit nur als Ankunftszeit; der Absender ist durch das Subject belegt (der Server lehnt Fälschung ab); eine Antwort gilt nur von dem, den man fragte | gefälschte Absender, Zeiten und Antworten |
+| Schwärzen **nach** dem Dekodieren des JSON, auf `text` und `att_name` | Geheimnisse mit `"`, `\`, `&`, `<` im JSON |
+| Sperrdatei `chat/.lock`: ein `viper ui-chat` je Zustandsverzeichnis | doppelte Zeilen im Verlauf |
 | Verlauf mit `0600` in einem Ordner `0700`; keine Datei außerhalb von `chat/`; Dateinamen nur aus geprüften Namen | Lesen durch andere, Pfade aus Fremdtext |
 | Rückfrage vor der ersten Nachricht an einen Rechner mit `NATS_MCP_PUSH_FROM` auf den Operator | Text, der ungewollt als Eingabe in einer Sitzung eines Agenten landet |
 | Die Gespräche zwischen Rechnern sind klar als **mitgelesen** gekennzeichnet, nur lesen, ohne Eingabefeld; `--no-pairs` schaltet sie ab (§9 Punkt 10) | das Gefühl, privat zu sein, und das Lesen von Nachrichten, die nicht für den Operator bestimmt sind (erlaubt, weil jeder Rechner der Gruppe es darf, aber sichtbar) |
@@ -110,7 +130,7 @@ Wie in [`ui.md` §3](ui.md), dazu:
 
 Die Bilder zeigen die Oberfläche mit Beispielen (Gruppe `bedrock-eu-guard-compose`, Rechner `w1` bis `w3`). Quelle: [`ui-chat/vorschau.html`](ui-chat/vorschau.html), im Browser zu öffnen.
 
-**1 Direktchat mit einem Rechner** (Frage, Antwort mit Datei, Hinweis auf `NATS_MCP_PUSH_FROM`, Angaben rechts):
+**1 Direktchat mit einem Rechner** (Frage, Antwort mit Datei, Hinweis auf `NATS_MCP_PUSH_FROM`, Angaben rechts; die Angaben zeigen nur, was der Strom und `Find` kennen, keine MCP-Version):
 
 ![Direktchat](ui-chat/1-direktchat.png)
 
@@ -148,14 +168,14 @@ Die Bilder zeigen die Oberfläche mit Beispielen (Gruppe `bedrock-eu-guard-compo
 
 | | Inhalt | Prüfung |
 |---|---|---|
-| 0 | **Verifikation:** Läuft `viper nats listen --all --json` stundenlang (Tunnel, Wiederverbinden, Speicher)? Sind `id` und `re` in den Zeilen vollständig genug für die Zuordnung (auch bei `request`)? Was kommt bei Rechnern ohne Anwesenheit? Wie viele Meldungen schafft der Strom je Sekunde? | echte Gruppe (`compose`, lokal), Messung, Ergebnis in diesen Plan |
-| 1 | **Gerüst:** `viper ui-chat`, Seiten und Schnittstelle des Chats im Webserver, Operator-Zustand (Bild 5), Liste der Gespräche aus `Overview.NATS` und `topics` | Go-Tests der Schnittstelle, Browser-Test (Liste, Leerzustand), axe hell/dunkel/de/en |
-| 2 | **Verlauf und Strom:** Anwendungsfall `chat` (Zuordnung inklusive **Paar** und **alle Themen**, Frage und Antwort), Port `chat.Store` und Datei, Strom je Gruppe, Wiederverbinden, Lesen in Seite (Bild 1 bis 3 ohne Senden) | Tabellentests der Zuordnung mit echten Zeilen, Tests des Verlaufs (Grenzen, Rechte, Löschen), e2e mit einem **Fake**, der Zeilen liefert |
+| 0 | **Verifikation** (zum Teil mit der Prüfung am 18.11.2026 beantwortet: Felder der Zeilen, alle Themen, Paare, Fälschung, Dedupe; ein Versuch mit `viper-nats-mcp` und einem eigenen Server). **Offen:** Durchsatz je Sekunde; ein **toter Tunnel** unter ssh und der Wächter; Wiederverbinden ohne Doppelte; `asked`-Ereignis von `request` (kleine Änderung, mit Test); Verhalten unter Windows und macOS (Tunnel als Kindprozess, Sperrdatei); zwei `viper ui-chat` | echte Gruppe (`compose`, lokal), Messung, Ergebnis in diesen Plan |
+| 1 | **Gerüst:** `viper ui-chat`, `web.Config.Site` und die Haken (§3.3), eigene Seiten und eigene Tests (`fs.FS`), Sperrdatei, Operator-Zustand (Bild 5), Liste der Gespräche aus `Overview.NATS` und `topics` | Go-Tests der Schnittstelle, Browser-Test (Liste, Leerzustand), axe hell/dunkel/de/en |
+| 2 | **Verlauf und Strom:** Anwendungsfall `chat` (Zuordnung inklusive **Paar** und **alle Themen**, Frage und Antwort), Port `chat.Store` und Datei, Strom je Gruppe, Wiederverbinden, Lesen in Seite (Bild 1 bis 3 ohne Senden) | Tabellentests der Zuordnung mit echten Zeilen (**Dedupe** der Antwort, späte Antwort mit `asked`, Reihenfolge verschiedener Absender, Neustart des Stroms, Zeilen über 4096 Byte und 32 KiB, Flut, Schwärzung eines Geheimnisses mit `&` und `"`, Namenskollision der Paare, `--readonly` mit Strom, **toter Tunnel**, Neustart nach „Authorization Violation“), Tests des Verlaufs (Grenzen, Rechte, Löschen), e2e mit einem **Fake**, der Zeilen liefert |
 | 3 | **Senden:** Nachricht, Rundruf, Frage; Zustand „wird gesendet“, Fehler; die Rückfrage bei `NATS_MCP_PUSH_FROM` | e2e mit dem **echten `viper`** und einem Fake-`ssh` (die Befehlszeile ist die richtige und kennt keine falsche Option; Lehre aus v0.26.0) |
 | 4 | **Dateien:** Senden (Ablegen, Strg+V, Prüfung), Herunterladen | Tests der Grenzen, Download-Kopfzeilen, Bild 4 |
 | 5 | **Anwesenheit, Ungelesenes, Suche, Benachrichtigung** | Tabellentests, e2e |
 | 6 | **Feinschliff:** schmale Breite, Tastatur, Sprache, Größe der Seiten (Grenze §9 Punkt 8) | axe, Tastaturtest, Größentest |
-| 7 | **Handbuch** (Kapitel zum Chat, Befehlstabelle, die Grenzen von NATS), README, Hilfe, Plan-Stand | Durchsicht, unabhängige Prüfung |
+| 7 | **Handbuch** (Kapitel zum Chat als **Ist-Zustand**, keine Chronik; Befehlstabelle neben `viper ui`; die Grenzen von NATS; „eigene Nachrichten vom Terminal sind unsichtbar“), README, Hilfe (`cli.go`, `help.go`), Plan-Stand | Durchsicht, unabhängige Prüfung |
 
 Nach jedem Meilenstein: unabhängige Prüfung, wie bei `viper ui`. Der Chat braucht **keine** neuen Rechte auf den Rechnern: alles läuft über die Befehle, die es gibt.
 
@@ -177,12 +197,31 @@ Der Benutzer hat am 18.11.2026 **alle Vorschläge übernommen**. Was jetzt gilt:
 4. **Formatierung:** nur Code-Blöcke, keine Links.
 5. **Benachrichtigung des Browsers:** aus, einschaltbar, ohne Inhalt der Nachricht.
 6. **Name:** `viper ui-chat`.
-7. **Frage:** Wartezeit 30 s, einstellbar bis 600 s; eine spätere Antwort erscheint trotzdem im Gespräch.
-8. **Größe der Seiten:** eigene Grenze von 175 KB für den Start, Texte je Sprache nachgeladen (wie bei `viper ui`).
-9. **Mehrere Gruppen** in einem Fenster, jede mit eigenem Strom, höchstens vier zugleich.
+7. **Frage:** Wartezeit 30 s, einstellbar bis **120 s** (so viel lässt `request` zu); eine spätere Antwort erscheint trotzdem im Gespräch (dafür gibt `request` die `id` aus, §3).
+8. **Größe der Seiten:** eigenes Paket und eigene Tests, **eigene Grenze von 175 KB** für den Start, Texte je Sprache nachgeladen (wie bei `viper ui`); `style.css` wird kopiert (§3.3).
+9. **Mehrere Gruppen** in einem Fenster, jede mit eigenem Strom **im Programm** (kein Lauf der Lauf-Tabelle), höchstens vier zugleich.
 10. **Paare** (Rechner ↔ Rechner) standardmäßig **sichtbar**; `--no-pairs` schaltet sie ab.
 11. **Verlauf beim Abmelden** (`viper nats revoke`): wird **behalten**, die Seite fragt, ob er gelöscht werden soll.
 
 ## 10 Prüfung
 
-Noch nicht geprüft. Vorgesehen: ein unabhängiger Prüfer liest den Plan gegen den Code und das gebaute Programm (Zeilen von `listen --json`, `id` und `re`, Verhalten bei Abbruch des Tunnels), bevor Meilenstein 1 beginnt.
+Am 18.11.2026 hat ein unabhängiger Prüfer den Plan gegen den Code gelesen und mit einem gebauten `viper-nats-mcp` und einem eigenen NATS-Server (Rechte des Operators und der Rechner) ausprobiert. Funde und Folgen:
+
+| Fund | Folge |
+|---|---|
+| „Ein Strom je Gruppe als Lauf des Servers“ trägt nicht: Budget (vier), 1 MiB Ausgabe, Zeilen zerhackt, stdout und stderr gemischt, Schwärzung auf der JSON-Zeile, `--readonly` sperrt `listen`, Aufräumen löscht Downloads, jede Nachricht zahlt Tunnel und `Find` neu | §3: **Strom im Programm** (`openOperator` einmal je Gruppe, `RunCLI` mit eigenem Writer), Schwärzen nach dem Dekodieren, `--readonly` lässt den Strom laufen |
+| Abbruch: Bei totem Tunnel merkt `watch` nichts; die Wartezeit ist fest 2 s (nicht „wächst bis 30 s“); es gibt kein `ready` auf stdout | §3: Wächter mit Neustart und eigener Wartezeit, „verbunden“ = erste Zeile |
+| Frage und Antwort: die `id` der eigenen Frage wird nirgends ausgegeben; `request` wartet höchstens 120 s (nicht 600); die Antwort kommt doppelt; ein Rechner kann ein fremdes `re` senden | §3: `request` gibt `asked` mit der `id` aus (kleine Änderung), Wartezeit bis 120 s, Dedupe nach (`re`, `from`), eigene Prüfung von `from`/`to` |
+| PUSH_FROM/`--yes` gibt es im Operator-Weg nicht; der Name des Operators ist einstellbar; das Backend kennt `PUSH_FROM` und den Namen nicht | §3: Rückfrage vom Chat selbst gebaut, `NATS_OPERATOR_NAME`, Backend erweitert (§3.3) |
+| Eigene Nachrichten kommen nie im Strom an (`NoEcho`) | §3: Chat trägt sie selbst ein; Nachrichten vom Terminal sind unsichtbar (Handbuch) |
+| „An N Rechner“ ist eine Schätzung; direkt nach dem Start stehen Themen falsch auf „niemand abonniert“ (die Rechner melden nur alle 30 s); Bild 3c widersprach sich | §3: `--query` beim Start, „unbekannt“ bis zur ersten Anwesenheit, Wortlaut „die das Thema melden“; Bild 3c berichtigt |
+| `caps` kommen nie im Strom (keine MCP-Version); `type` kennt auch `res`; `bye` nicht genutzt; „keine Lampe = ältere Fassung“ ist nicht herleitbar; „Server“-Marke ohne Quelle | §3.2, §3: Angaben ohne MCP-Version, `bye`, Lampe „unbekannt“, Marke aus `Find` |
+| Dateiname `paar-<a>-<b>` ist mehrdeutig (Bindestriche); „200 Gespräche ohne Meldung“ sinnlos; Themenflut; Neuschreiben bei jeder Zeile; Zähler in Zeichen statt Bytes; fester Pfad statt `model.StateDir` | §3.1: `__` als Trenner, 500 Gespräche, 100 neue Themen je Stunde, Rotation in zwei Dateien, Bytes und 32 KiB, `model.StateDir` |
+| Kein Zeitstempel des Absenders | §3.1: Ankunftszeit, Folgen genannt; Absender durch das Subject belegt |
+| Zwei `viper ui-chat` schrieben doppelt | §3.1: Sperrdatei mit `internal/filelock` |
+| Webserver: feste Routen, fester Pfad der Ströme und des Uploads, `Pages()`-Tests mit fester Dateiliste und gemeinsamer Grenze | §3.3: `Config.Site`, Haken, einstellbare Pfade, eigenes Paket mit eigenen Tests und Grenzen |
+| Downloads hängen an der Lauf-Tabelle; die Größe ist `min(FileMax, 64 MiB)`; das Senden einer Datei löst einen Anwesenheitsschub aus | §3.3, §4.5, §3 |
+| Bild 5a widersprach Entscheidung 3 (Behelf über einen Rechner), Schritt 1 ohne „läuft“/Fehler; Bild 5b doppelte Anleitung; Bild 1: Antwort nach 2 min 12 s bei 30 s Wartezeit | Bilder 5a, 5b und 1 berichtigt |
+| Optionen von `viper ui-chat` unvollständig; keine Rate-Grenze; Windows/macOS nicht genannt; verworfene Meldungen unsichtbar | §3, §3.2, §3.1 |
+
+Offen bleibt Meilenstein 0 (Durchsatz, toter Tunnel unter ssh, Windows und macOS, zwei Chats).
